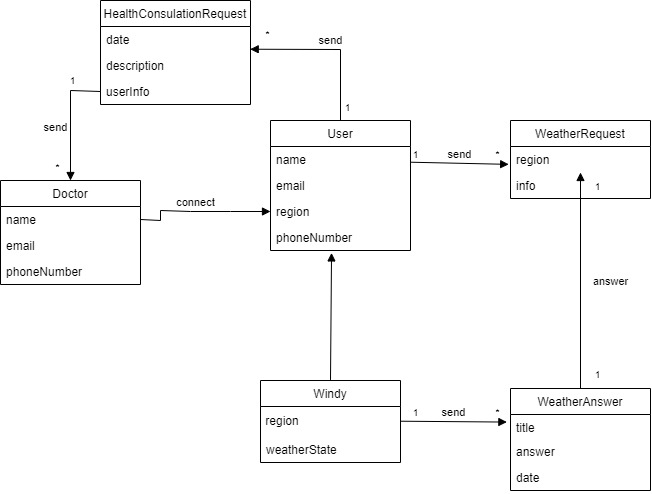
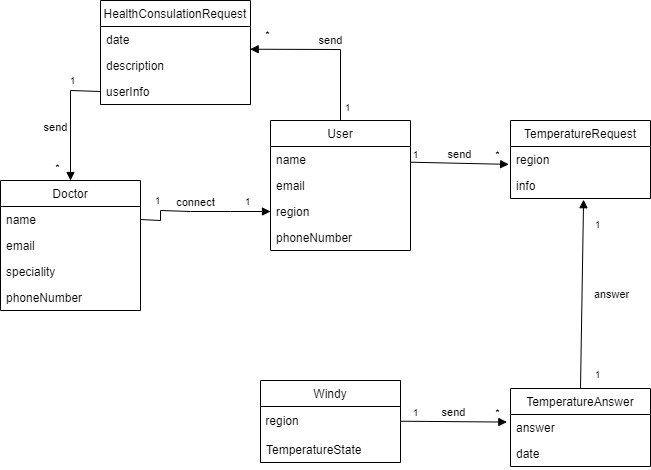
Fixes to Laboratory Work 5

diff --git a/1-SoftwareRequirements/1.4-FuncNonFuncRequirements/1.4.2-Glossary/README.md b/1-SoftwareRequirements/1.4-FuncNonFuncRequirements/1.4.2-Glossary/README.md
@@ -1,6 +1,12 @@
 ### Глосарій термінів
 
-| № | Термін                            | Пояснення терміну                                                                                                               
-|---|-----------------------------------|---------------------------------------------------------------------------------------------------------------------------------|
-| 1 | Надати пораду                     | Процес надання конкретних рекомендацій, вказівок або розсудливих висловлювань для допомоги особі, яка шукає вирішення проблеми. |
-| 2 | Перегляд температури повітря      | Процес перегляду информації про температуру навколишнього середовища в певному місці чи області.                                |                                                                                                                                                                                                                                                                                                                                                           |
+| № | Термін                                                           | Пояснення терміну                                                                                                                        
+|---|------------------------------------------------------------------|------------------------------------------------------------------------------------------------------------------------------------------|
+| 1 | Надати пораду                                                    | Процес надання конкретних рекомендацій, вказівок або розсудливих висловлювань для допомоги особі, яка шукає вирішення проблеми.          |
+| 2 | Перегляд температури повітря                                     | Процес перегляду информації про температуру навколишнього середовища в певному місці чи області.                                         |     
+| 3 | Інформація про користувача                                       | Користувач в системі представлений ім'ям, електроною почтою, регіоном де проживає користувач та телефоним номером                        |
+| 4 | Лікар                                                            | Лікар в системі представлений ім'ям, електроною почтою, фахом та телефоним номером                                                       |
+| 5 | Запит на отримання консультації                                  | Запит на отримання консультації повинен мати дату запиту, короткий опис запиту та інформацію про користувача, який надіслав запит        |
+| 6 | Запит на отримання актуальної інформації про температуру повітря | Запит на отримання інформації про температуру повітря повинен мати регіон для якого потрібна інфоримація та можливу додаткову інформацію |
+| 7 | Актуальна інформація про температуру повітря                     | Це інфомація про температуру повітря на певну дату.                                                                                      |
+| 8 | Windy                                                            | Веб-додаток, який надає інформацію про температуру повітря для регіону.                                                                  |

diff --git a/1-SoftwareRequirements/1.4-FuncNonFuncRequirements/1.4.1-FR/README.md b/1-SoftwareRequirements/1.4-FuncNonFuncRequirements/1.4.1-FR/README.md
@@ -1,12 +1,12 @@
 ### Опис функціональних вимог
 
-| FR    | Опис функціональної вимоги                                                                                |
-|-------|-----------------------------------------------------------------------------------------------------------|
-| FR1   | Надати пораду                                                                                             |
-| FR1.1 | Користувач подає запит на отримання консультації щодо фізичного здоров'я.                                 |
-| FR1.2 | Лікар отримує дані користувача для надання консультації щодо фізичного здоров'я                           |
-| FR1.3 | Користувач отримує пораду щодо фізичного здоров'я.                                                        |
-| FR2   | Перегляд температури повітря                                                                              |
-| FR2.1 | Користувач надсилає запит для отримання актуальної інформації про якість повітря навколишнього середовища |
-| FR2.2 | Windy отримує запит та повертає актуальну інформацію про температури повітря                              |
-| FR2.3 | Користувач отримує актуальну інформацію про температури повітря                                           |
+| FR    | Опис функціональної вимоги                                                            |
+|-------|---------------------------------------------------------------------------------------|
+| FR1   | Надати пораду                                                                         |
+| FR1.1 | Користувач подає запит на отримання консультації щодо фізичного здоров'я.             |
+| FR1.2 | Лікар отримує дані користувача для надання консультації щодо фізичного здоров'я       |
+| FR1.3 | Користувач отримує пораду щодо фізичного здоров'я.                                    |
+| FR2   | Перегляд температури повітря                                                          |
+| FR2.1 | Користувач надсилає запит для отримання актуальної інформації про температуру повітря |
+| FR2.2 | Windy отримує запит та повертає актуальну інформацію про температури повітря          |
+| FR2.3 | Користувач отримує актуальну інформацію про температуру повітря                       |

diff --git a/2-SoftwareDesign/2.2-AttributeVocabulary/README.md b/2-SoftwareDesign/2.2-AttributeVocabulary/README.md
@@ -12,7 +12,7 @@
 | WeatherAnswer             | answer       | Відповідь на запрос                | Текст | Довжина < 100 символів |
 | WeatherAnswer             | date         | Дата                               | Дата  | -                      |
 | Windy                     | region       | Регіон                             | Текст | Довжина < 30 символів  |
-| Windy                     | WeatherState | Інформація про температуру         | Текст | Довжина < 100 символів |
+| Windy                     | weatherState | Інформація про температуру         | Текст | Довжина < 100 символів |
 | HealthConsultationRequest | date         | Дата запиту                        | Дата  | -                      |
 | HealthConsultationRequest | description  | Опис                               | Текст | Довжина < 100 символів |
 | HealthConsultationRequest | userInfo     | Інформація про користувача         | Текст | Довжина < 100 символів |
